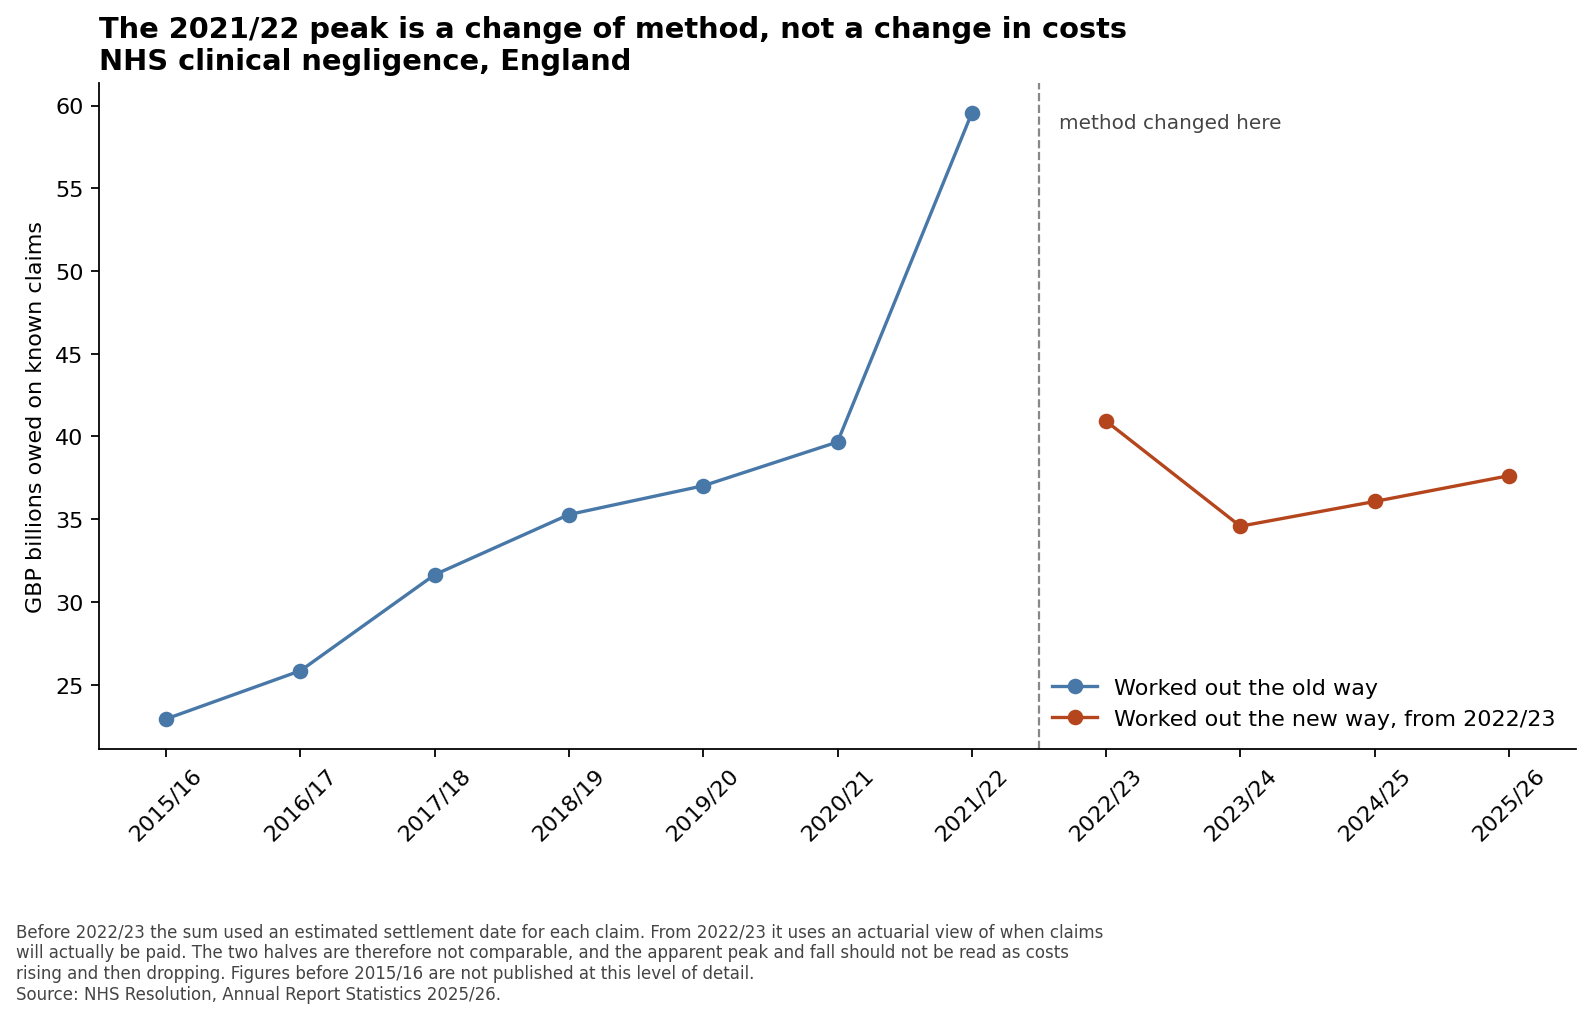
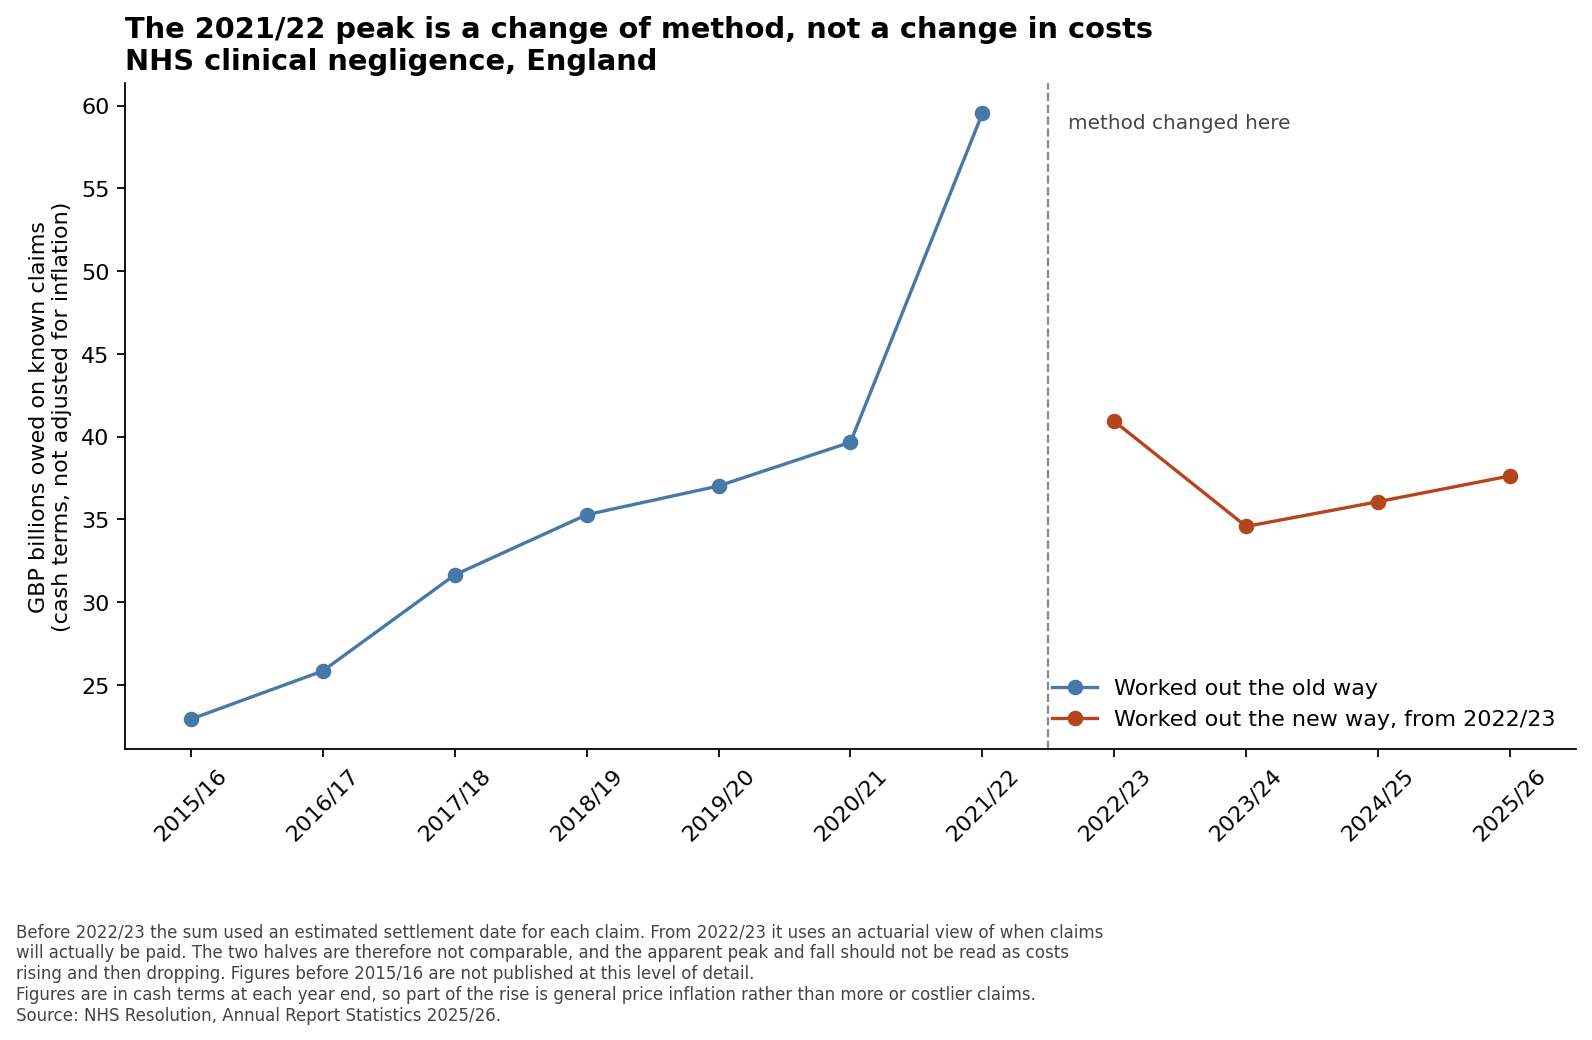
Confirm the finding by size of payout, and state the inflation position
Two additions after review.

A second route to the same question, using the spreadsheet's other split: the
size each claim is valued at rather than which specialty it came from. Claims
of GBP 4.5m and over are 2.6% of claims reported and 80.3% of money owed,
which agrees with the specialty result and states it more sharply. The
cleaning step was generalised to read either kind of table rather than
duplicated.

The money figures are left in cash terms, deliberately, and the reason is now
stated on the chart and in the README: these are forward-looking discounted
estimates rather than past spending, so deflating by past inflation would mix
two different things. Every share quoted sits inside a single year, so the
main finding is unaffected either way.

diff --git a/src/clean_data.py b/src/clean_data.py
@@ -46,14 +46,17 @@ def is_total_row(name: str) -> bool:
     return any(cleaned.startswith(t) for t in TOTAL_ROWS)
 
 
-def read_table(sheet: str, table_label: str) -> pd.DataFrame:
+def read_table(sheet: str, table_label: str, row_label: str = "Specialty") -> pd.DataFrame:
     """
     Pull one table out of one sheet.
 
     We do not trust row numbers, because they differ between sheets. Instead we
     find the table's heading, then the first row underneath it whose first cell
-    reads "Specialty". That row holds the years. Everything below it, until the
-    first empty row, is the data.
+    matches `row_label`. That row holds the years. Everything below it, until
+    the first empty row, is the data.
+
+    `row_label` is "Specialty" for the tables split by medical specialty, and
+    "Damages value band" for the tables split by size of payout.
     """
     sheet_data = pd.read_excel(RAW, sheet_name=sheet, header=None)
     labels = sheet_data[2].astype(str)
@@ -63,9 +66,9 @@ def read_table(sheet: str, table_label: str) -> pd.DataFrame:
         raise ValueError(f"Could not find {table_label!r} on sheet {sheet!r}")
     start = start[0]
 
-    header_matches = labels[(labels.index > start) & (labels.str.strip() == "Specialty")].index
+    header_matches = labels[(labels.index > start) & (labels.str.strip() == row_label)].index
     if len(header_matches) == 0:
-        raise ValueError(f"No 'Specialty' heading under {table_label!r}")
+        raise ValueError(f"No {row_label!r} heading under {table_label!r}")
     header_row = header_matches[0]
 
     years = [str(y).strip() for y in sheet_data.iloc[header_row, 3:].tolist()]
@@ -78,19 +81,22 @@ def read_table(sheet: str, table_label: str) -> pd.DataFrame:
             break
         rows.append([str(name).strip()] + sheet_data.iloc[position, 3 : 3 + len(years)].tolist())
 
-    table = pd.DataFrame(rows, columns=["specialty"] + years)
+    table = pd.DataFrame(rows, columns=["category"] + years)
     return table
 
 
-def to_long(table: pd.DataFrame, value_name: str) -> pd.DataFrame:
+def to_long(table: pd.DataFrame, value_name: str, label: str = "specialty") -> pd.DataFrame:
     """
-    Reshape from one-column-per-year into one row per specialty per year.
+    Reshape from one-column-per-year into one row per category per year.
 
     This shape is easier to filter and chart, and it is the shape most analysis
     tools expect.
     """
-    long = table.melt(id_vars="specialty", var_name="year", value_name=value_name)
-    long["is_total"] = long["specialty"].map(is_total_row)
+    if "specialty" in table.columns:
+        table = table.rename(columns={"specialty": "category"})
+    long = table.melt(id_vars="category", var_name="year", value_name=value_name)
+    long = long.rename(columns={"category": label})
+    long["is_total"] = long[label].map(is_total_row)
 
     # "#" means hidden for privacy. Treat as missing, never as zero.
     long["suppressed"] = long[value_name].astype(str).str.strip() == "#"
@@ -104,11 +110,21 @@ def build() -> None:
     claims = to_long(read_table("B", "Table B.1"), "claims")
     money = to_long(read_table("F", "Table F.1"), "liability_gbp")
 
+    # The same two measures, split by the size of the payout instead of by
+    # medical specialty. This gives a second, independent way of checking
+    # whether a few large claims drive most of the money.
+    band_label = "Damages value band"
+    claims_band = to_long(read_table("A", "Table A.1", band_label), "claims", label="band")
+    money_band = to_long(read_table("E", "Table E.1", band_label), "liability_gbp", label="band")
+
     # Drop the years where money was not recorded at this level of detail.
     money = money[money["year"] >= MONEY_FIRST_YEAR].copy()
+    money_band = money_band[money_band["year"] >= MONEY_FIRST_YEAR].copy()
 
     claims.to_csv(PROCESSED / "claims_by_specialty.csv", index=False)
     money.to_csv(PROCESSED / "liabilities_by_specialty.csv", index=False)
+    claims_band.to_csv(PROCESSED / "claims_by_band.csv", index=False)
+    money_band.to_csv(PROCESSED / "liabilities_by_band.csv", index=False)
 
     print(f"claims notified   {claims['year'].min()} to {claims['year'].max()}  "
           f"{claims['specialty'].nunique()} rows per year, "
@@ -116,6 +132,9 @@ def build() -> None:
     print(f"money owed        {money['year'].min()} to {money['year'].max()}  "
           f"{money['specialty'].nunique()} rows per year, "
           f"{int(money['suppressed'].sum())} hidden cells")
+    print(f"by payout size    claims {claims_band['band'].nunique()} bands, "
+          f"money {money_band['band'].nunique()} bands, "
+          f"{int(claims_band['suppressed'].sum()) + int(money_band['suppressed'].sum())} hidden cells")
 
 
 if __name__ == "__main__":

diff --git a/src/chart.py b/src/chart.py
@@ -89,7 +89,7 @@ def draw_trend() -> Path:
                   xytext=(boundary + 0.15, axes.get_ylim()[1] * 0.97),
                   fontsize=9, color="#444", va="top")
 
-    axes.set_ylabel("GBP billions owed on known claims")
+    axes.set_ylabel("GBP billions owed on known claims\n(cash terms, not adjusted for inflation)")
     axes.set_title("The 2021/22 peak is a change of method, not a change in costs\n"
                    "NHS clinical negligence, England",
                    loc="left", fontsize=13, fontweight="bold")
@@ -102,7 +102,7 @@ def draw_trend() -> Path:
                 "2022/23 it uses an actuarial view of when claims\nwill actually be paid. The two "
                 "halves are therefore not comparable, and the apparent peak and fall should not be "
                 "read as costs\nrising and then dropping. Figures before 2015/16 are not published "
-                "at this level of detail.\nSource: NHS Resolution, Annual Report Statistics 2025/26.",
+                "at this level of detail.\nFigures are in cash terms at each year end, so part of the rise is general price inflation rather than more or costlier claims.\nSource: NHS Resolution, Annual Report Statistics 2025/26.",
                 fontsize=7.5, color="#444", va="top")
 
     figure.tight_layout()
@@ -112,6 +112,53 @@ def draw_trend() -> Path:
     return target
 
 
+
+def draw_bands() -> Path:
+    """
+    The same finding reached a second way: by size of payout.
+
+    This is the clearer picture of the two, because it compares like with like.
+    Most claims are small and account for almost none of the money. A small
+    number of very large claims account for most of it.
+    """
+    table = pd.read_csv(OUTPUTS / "money_vs_claims_by_band.csv")
+    table = table.iloc[::-1]
+
+    positions = range(len(table))
+    height = 0.4
+
+    figure, axes = plt.subplots(figsize=(10, 6))
+    axes.barh([p + height / 2 for p in positions], table["money_share"],
+              height=height, label="Share of money owed", color="#B5451C")
+    axes.barh([p - height / 2 for p in positions], table["claims_share"],
+              height=height, label="Share of claims reported", color="#4878A8")
+
+    axes.set_yticks(list(positions))
+    axes.set_yticklabels(table["band"])
+    axes.set_xlabel("Percent")
+    axes.set_ylabel("Size the claim is valued at")
+    axes.set_title("Most claims are small. Most of the money is in a few very large ones.\n"
+                   "NHS clinical negligence, England, 2025/26",
+                   loc="left", fontsize=13, fontweight="bold")
+    axes.legend(loc="upper right", frameon=False)
+    axes.spines[["top", "right"]].set_visible(False)
+
+    figure.text(0.01, -0.02,
+                "Claims valued at GBP 4.5m and over are 2.6% of the claims reported in 2025/26 and "
+                "80.3% of the money owed.\nClaims reported during the year (15,236). Money owed on "
+                "all open known claims at 31 March 2026 (GBP 37.6bn). The two measures\ncover "
+                "different groups of claims. Source: NHS Resolution, Annual Report Statistics "
+                "2025/26.",
+                fontsize=7.5, color="#444", va="top")
+
+    figure.tight_layout()
+    target = OUTPUTS / "money_vs_claims_by_band.png"
+    figure.savefig(target, dpi=160, bbox_inches="tight")
+    print(f"chart written to {target}")
+    return target
+
+
 if __name__ == "__main__":
     draw()
+    draw_bands()
     draw_trend()

diff --git a/src/analyse.py b/src/analyse.py
@@ -91,6 +91,59 @@ def check_parts_add_up(year: str, tolerance: float = 0.005) -> dict:
     return results
 
 
+
+# Payout-size bands in order, smallest to largest. The spreadsheet lists them
+# alphabetically, which puts GBP 1m before GBP 25,000, so they are reordered here.
+BAND_ORDER = [
+    "Nil",
+    "£1-£1,500",
+    "£1,501-£25,000",
+    "£25,001-£50,000",
+    "£50,001-£100,000",
+    "£100,001-£250,000",
+    "£250,001-£500,000",
+    "£500,001-£1,000,000",
+    "£1,000,001-£2,000,000",
+    "£2,000,001-£4,499,999",
+    "£4,500,000+",
+]
+
+
+def band_table() -> pd.DataFrame:
+    """
+    The same question asked a second way: by size of payout rather than by
+    medical specialty.
+
+    If the specialty finding is right, it should also show up here, because the
+    expensive specialties are expensive precisely because their claims are
+    large. Two routes agreeing is a far stronger result than one route alone.
+    """
+    money = pd.read_csv(PROCESSED / "liabilities_by_band.csv")
+    claims = pd.read_csv(PROCESSED / "claims_by_band.csv")
+
+    year = latest_year(money)
+
+    money_year = money[(money["year"] == year) & (~money["is_total"])]
+    money_total = money[(money["year"] == year)
+                        & (money["band"] == KNOWN_CLAIMS_TOTAL)]["liability_gbp"].iloc[0]
+
+    claims_year = claims[(claims["year"] == year) & (~claims["is_total"])]
+    claims_total = claims[(claims["year"] == year)
+                          & (claims["band"] == CLAIMS_TOTAL)]["claims"].iloc[0]
+
+    merged = money_year[["band", "liability_gbp"]].merge(
+        claims_year[["band", "claims"]], on="band", how="outer"
+    )
+    merged["money_share"] = merged["liability_gbp"] / money_total * 100
+    merged["claims_share"] = merged["claims"] / claims_total * 100
+    merged["band"] = pd.Categorical(merged["band"], categories=BAND_ORDER, ordered=True)
+    merged = merged.sort_values("band").reset_index(drop=True)
+    merged.attrs["year"] = year
+    merged.attrs["money_total"] = money_total
+    merged.attrs["claims_total"] = claims_total
+    return merged
+
+
 if __name__ == "__main__":
     OUTPUTS.mkdir(exist_ok=True)
     table = share_table()
@@ -108,6 +161,18 @@ if __name__ == "__main__":
     print(show.to_string(index=False))
 
     table.to_csv(OUTPUTS / "money_vs_claims_latest_year.csv", index=False)
+
+    bands = band_table()
+    top = bands[bands["band"] == "£4,500,000+"].iloc[0]
+    print(f"\nSecond route, by size of payout, {bands.attrs['year']}:")
+    show_bands = bands[["band", "claims", "claims_share", "liability_gbp", "money_share"]].copy()
+    show_bands["liability_gbp"] = (show_bands["liability_gbp"] / 1e9).round(2)
+    show_bands = show_bands.round(1)
+    show_bands.columns = ["payout size", "claims", "claims %", "GBPbn", "money %"]
+    print(show_bands.to_string(index=False))
+    print(f"\n  Claims valued at GBP 4.5m and over: {top['claims_share']:.1f}% of claims "
+          f"reported, {top['money_share']:.1f}% of money owed.")
+    bands.to_csv(OUTPUTS / "money_vs_claims_by_band.csv", index=False)
 
     print("\nCheck: do our specialty rows add up to the published totals?")
     for name, result in check_parts_add_up(year).items():

diff --git a/README.md b/README.md
@@ -28,6 +28,18 @@ In 2025/26:
 - At the opposite end, the "Other" grouping produced **39% of claims** and about **8%** of the
   money.
 
+## The same answer, reached a second way
+
+A finding from one angle can be an accident of how the data happens to be grouped. So the same
+question was asked again using the other split the spreadsheet offers: the size each claim is
+valued at, rather than which part of the NHS it came from.
+
+![Share of claims against share of money owed, by size of claim](outputs/money_vs_claims_by_band.png)
+
+It agrees, and more sharply. **Claims valued at £4.5 million and over are 2.6% of the claims
+reported and account for 80.3% of the money owed**, £30.2bn of the £37.6bn. At the other end,
+about 72% of claims are valued under £100,000 and together account for under 3% of the money.
+
 Once you think about what a birth injury means, the result makes sense. A child who needs care for
 the whole of a normal lifespan is enormously expensive to compensate, while most claims are far
 smaller. This is the usual shape of insurance costs, and it is why an average claim cost on its own
@@ -55,6 +67,15 @@ arrived during the year. Money owed covers every claim still open at the year en
 reported long before. Brain injury claims take years to resolve, so they build up in the open pile.
 It would be wrong to say "1.7% of claims cause 55% of costs". What is right, and is still the
 point, is that this category is a small share of new claims and a very large share of money owed.
+
+**The money figures are in cash terms and are not adjusted for inflation.** They are deliberately
+left that way. These are not records of past spending but estimates, made at each year end, of
+money expected to be paid in future, and they already contain assumptions about future inflation
+and are discounted to a present value. Deflating them by past inflation would mix two different
+things and make the result harder to read, not easier. So the honest statement is that a change
+between years reflects some combination of price inflation, the number and size of claims, and the
+discount rate used, and this published table cannot separate those three. None of this touches the
+main finding, because every share quoted here sits inside a single year.
 
 The figures also say nothing about whether care is getting better or worse, nothing about fault,
 and nothing about Scotland, Wales or Northern Ireland. NHS Resolution covers England only.
@@ -87,7 +108,7 @@ To run a single step on its own:
 ./.venv/bin/python src/fetch_data.py    # download the published spreadsheet
 ./.venv/bin/python src/clean_data.py    # turn it into clean tables
 ./.venv/bin/python src/analyse.py       # work out the shares and check they add up
-./.venv/bin/python src/chart.py         # draw both charts
+./.venv/bin/python src/chart.py         # draw all three charts
 make test                               # run the checks on their own
 ```
 

diff --git a/NOTES.md b/NOTES.md
@@ -78,3 +78,40 @@ is why an average claim cost tells you very little on its own.
 **What this does not show.** Nothing about whether care is getting better or worse, nothing about
 fault, and nothing about claims in Scotland, Wales or Northern Ireland, since NHS Resolution covers
 England only.
+
+### 26 October 2026 — checking the finding a second way, and the inflation question
+
+**Second route: by size of payout.** The specialty finding could be an artefact of how claims are
+grouped into specialties, so I asked the same question using the other split the spreadsheet
+offers, the size the claim is valued at. It agrees, and more sharply:
+
+> Claims valued at **£4.5m and over are 2.6%** of the claims reported in 2025/26 and account for
+> **80.3% of the money owed**, £30.2bn of £37.6bn.
+
+Meanwhile 72% of claims are valued under £100,000 and account for under 3% of the money. Two
+independent routes through the same data reaching the same conclusion is worth much more than one.
+
+The two routes are not really independent in a deep sense, since obstetric brain injury claims are
+expensive precisely because they are large. But they are different cuts of the data, and if the
+specialty result had been an artefact of grouping, the band result would not have lined up.
+
+**Why I have not adjusted for inflation, and what I did instead.**
+
+The figures run across eleven years in cash terms, so an obvious question is how much of the rise
+is just prices. I decided not to deflate, for a reason worth stating:
+
+- These are not past spending. They are estimates, made at each year end, of money expected to be
+  paid in the future. They already contain assumptions about future inflation and are discounted
+  back to a present value.
+- Deflating them by past consumer or GDP inflation would therefore be mixing two different things
+  and would produce a number that is harder to interpret, not easier.
+- The honest statement is that the figures are **in cash terms at each valuation date**, and that
+  changes between years reflect price inflation, changes in the number and size of claims, and
+  changes in the discount rate used, with no way to separate those three from this published table
+  alone.
+
+That is now stated on the trend chart and in the README.
+
+**It does not touch the main finding.** Every concentration figure in this project is a share
+within a single year, so inflation cannot affect it. 80.3% of the money sitting in claims of £4.5m
+and over is true whatever the price level.
